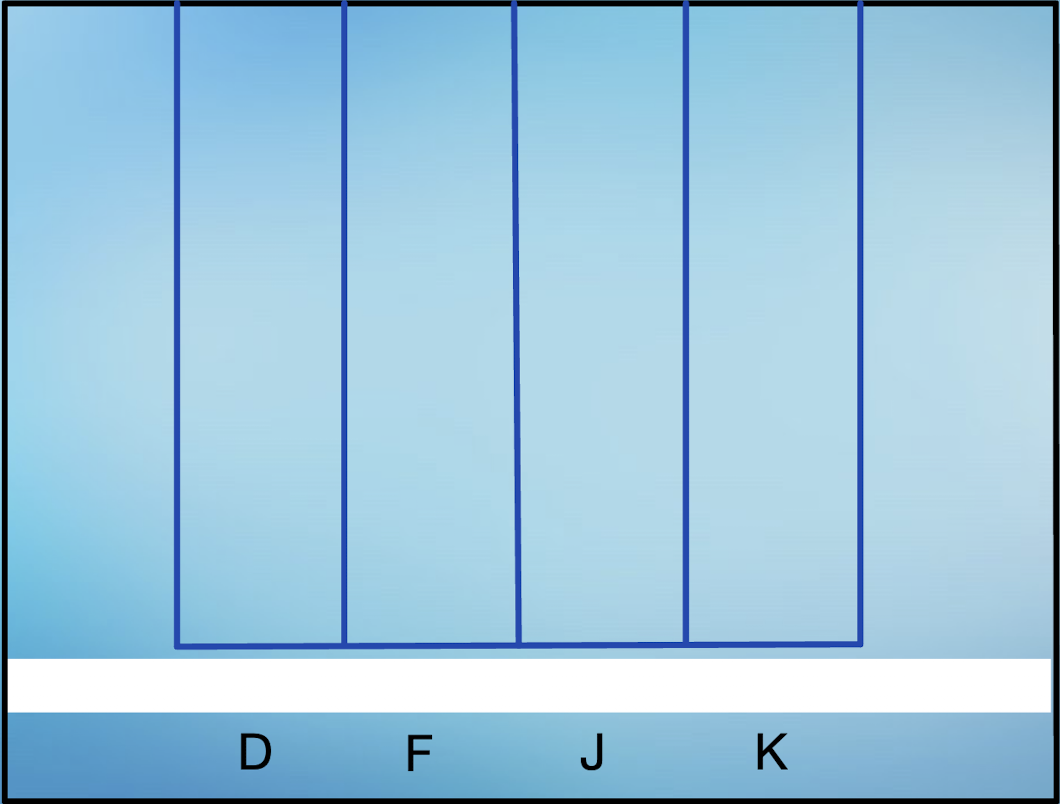
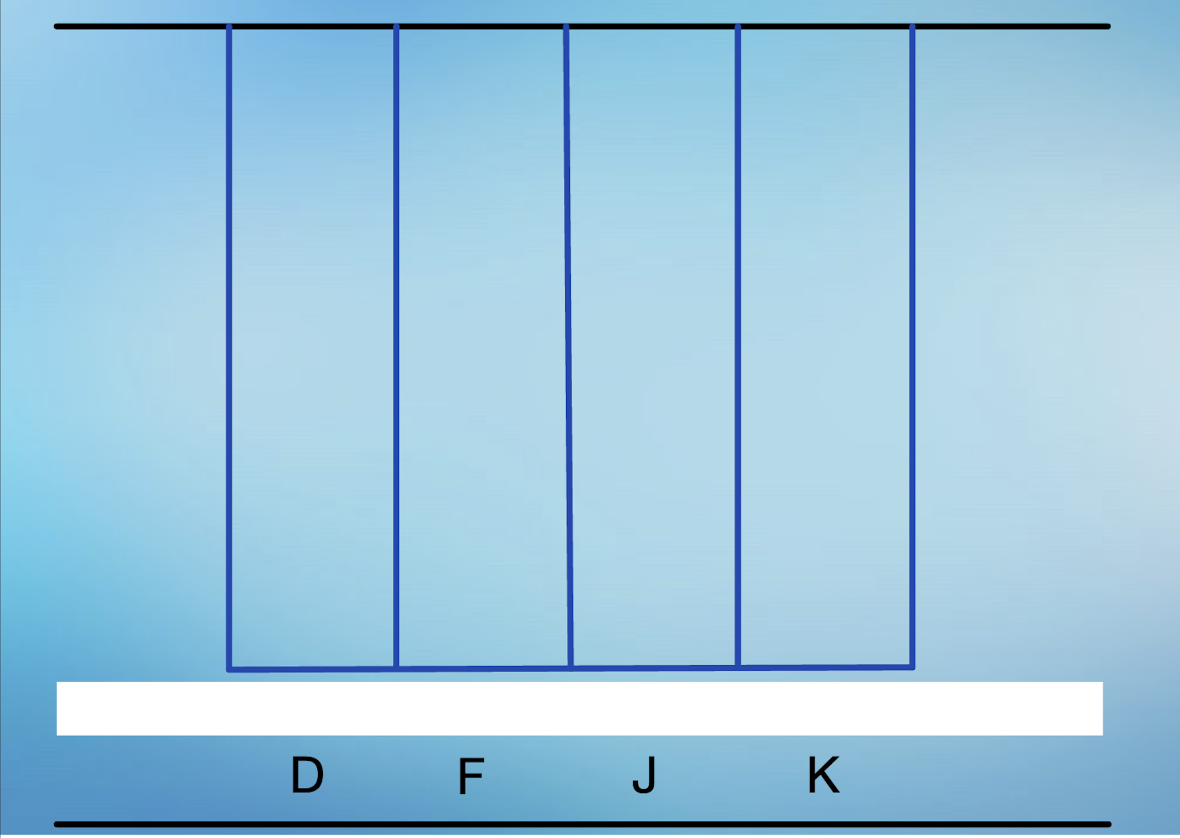
background and end pic updated

Changed region(s): [[0.0, 0.0, 1.0, 1.0]]

diff --git a/src/GuitarHeroGame.java b/src/GuitarHeroGame.java
@@ -9,8 +9,8 @@ import audioplayer.Song;
 import audioplayer.SongReader;
 
 public class GuitarHeroGame {
-    private static final int CANVAS_WIDTH = 1060;
-    private static final int CANVAS_HEIGHT = 800;
+    private static final int CANVAS_WIDTH = 1150;
+    private static final int CANVAS_HEIGHT = 1000;
 
     private int score = 0; // total score
     private int positiveScore = 0; // points gained
